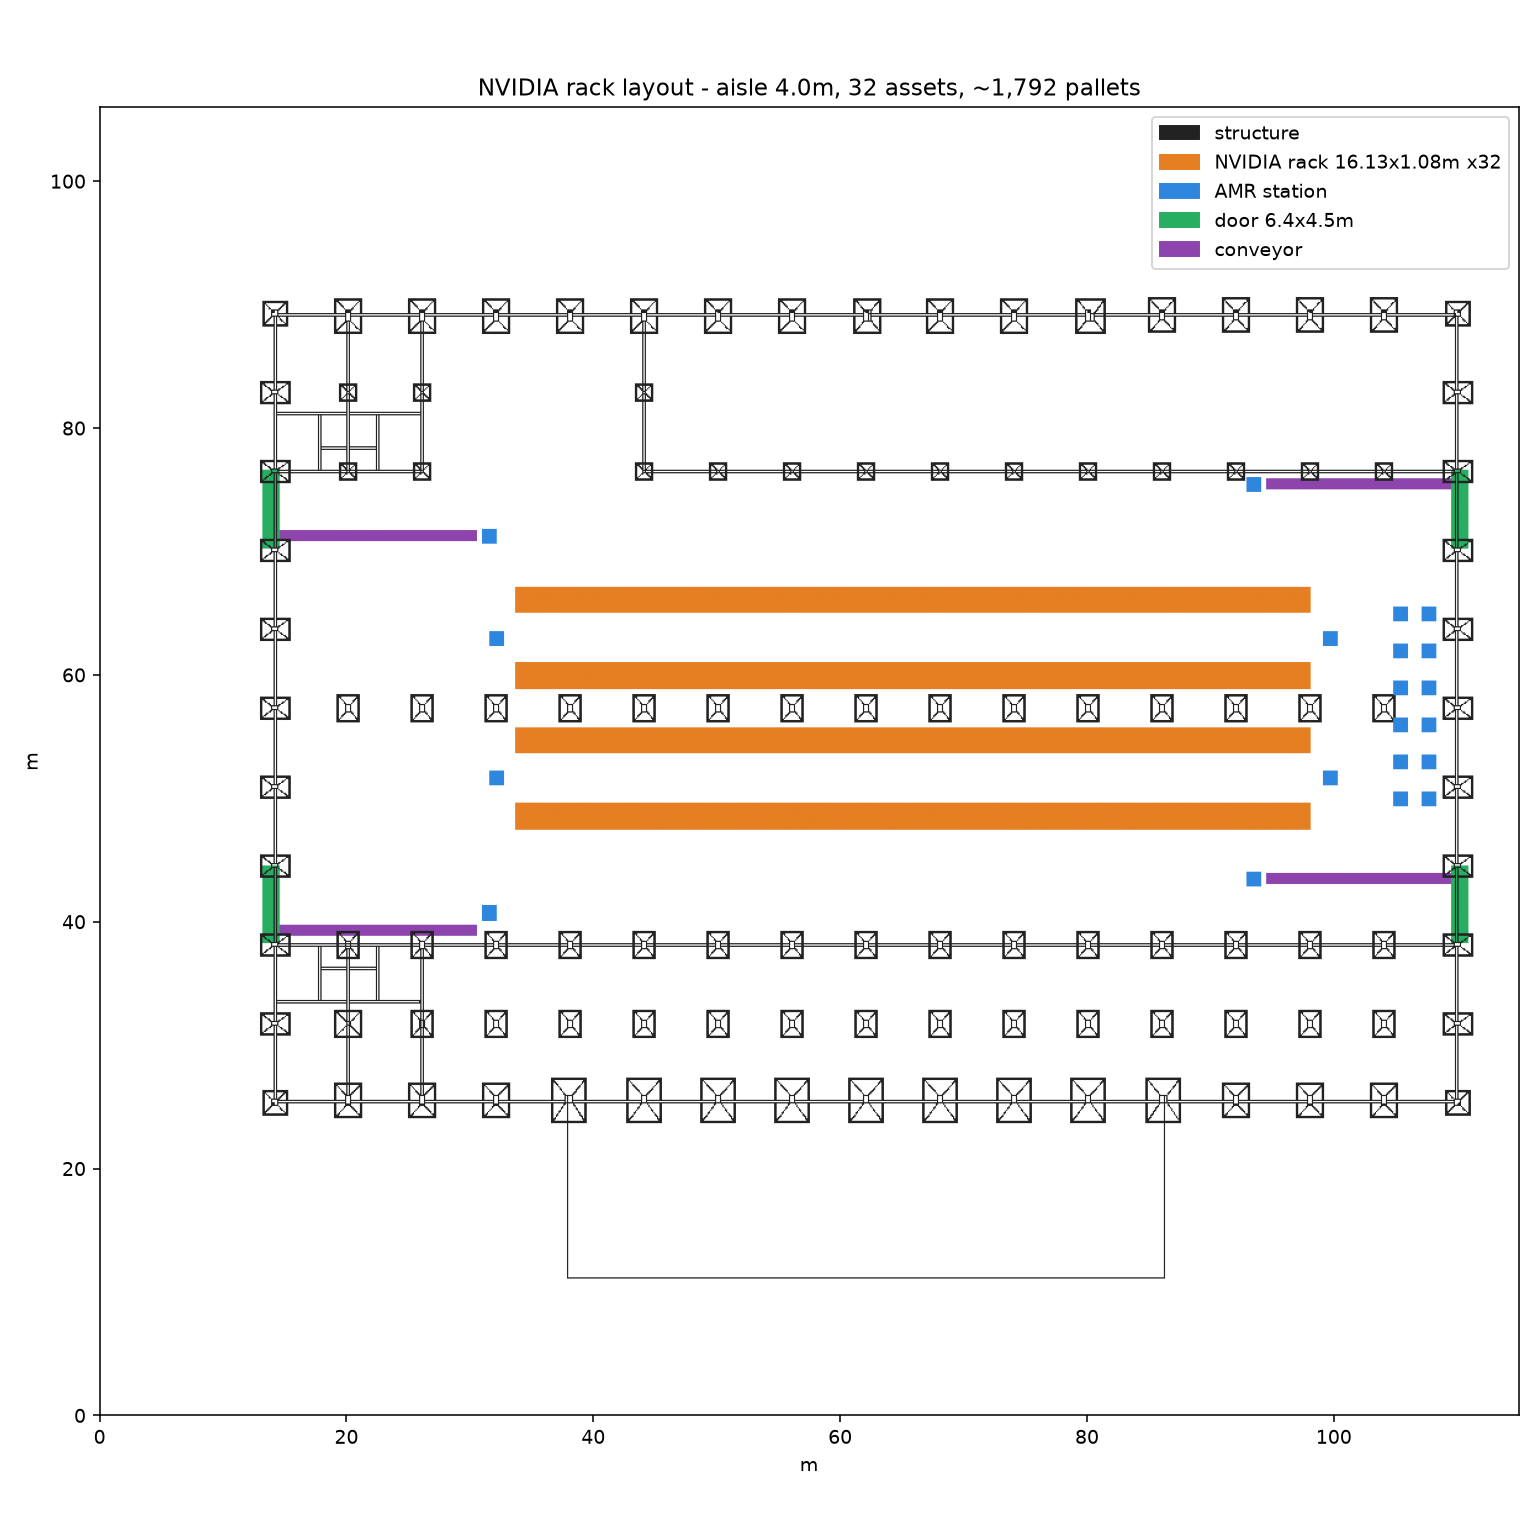
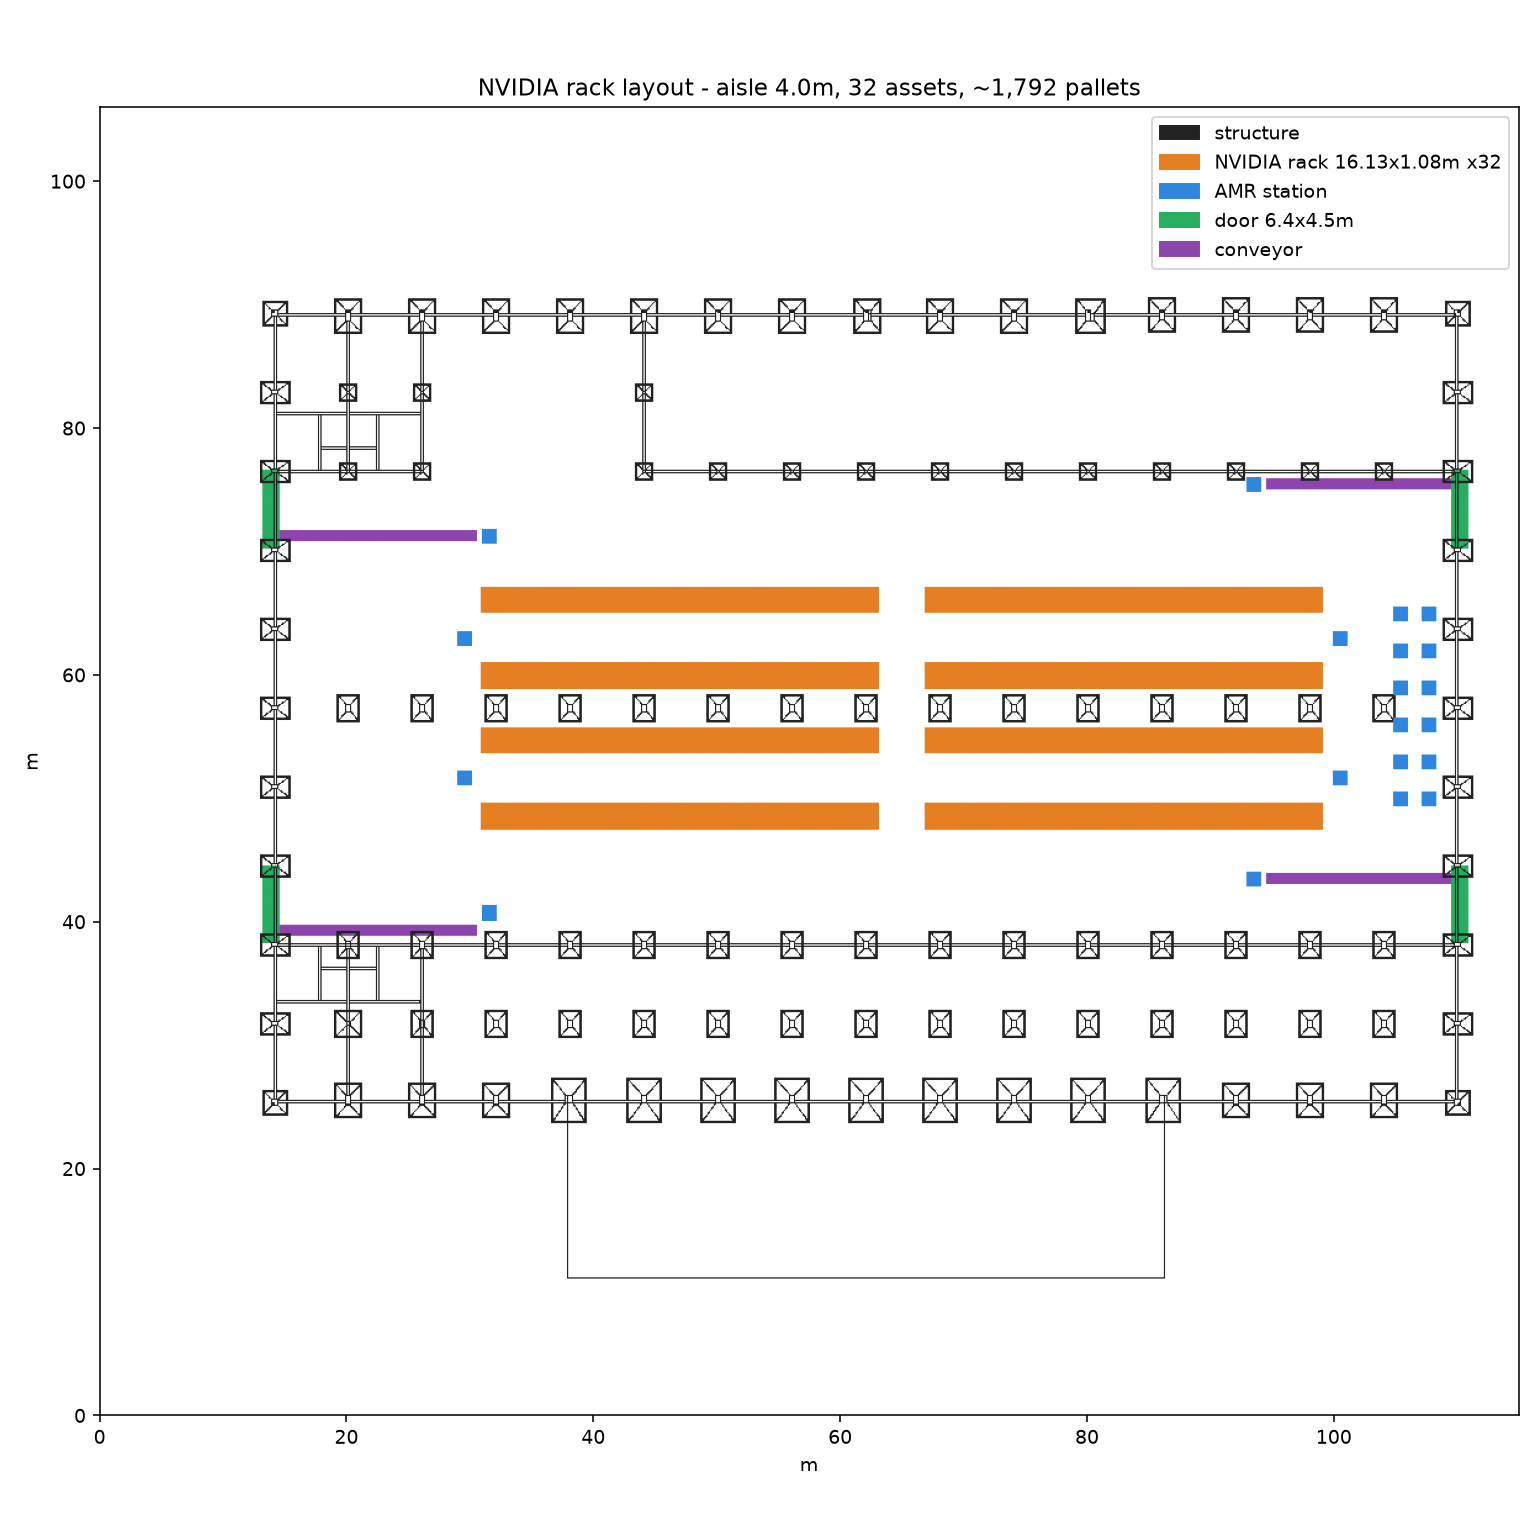
feat: 맵 v6.3 — 크로스-아일 신설로 빗 위상 해소, 데드 면 리저브 선언
- 유닛 2|3 경계 3.74m 갭(블록 32.26m x2), 갭 중심을 기둥 중간점 x65.1 정렬
  (기둥 62.1/68.1 팽창역 사이 관통 채널 2.1~2.5m 실측) — 순환 루프 성립,
  진입구 4→6곳, 저장 손실 0(양끝 슬랙 소진, 뱅크 30.97~99.23)
- 입구 버퍼 재계산(서 29.6/동 100.6), 스테이션 도달성 20/20 유지
- 기둥 갭 측 2개 면 리저브 선언: 파렛트 1,792 = 가용 1,344 + 리저브 448

Changed region(s): [[0.561, 0.374, 0.6234, 0.561], [0.2805, 0.374, 0.3429, 0.561], [0.8416, 0.374, 0.8727, 0.5299]]

diff --git a/sil/t3_warehouse_map/map_gen.py b/sil/t3_warehouse_map/map_gen.py
@@ -1,5 +1,5 @@
 # ============================================================
-# DXF 도면 → Occupancy Grid → 렉/AMR 배치 (v6.2 — 검증 반영)
+# DXF 도면 → Occupancy Grid → 렉/AMR 배치 (v6.3 — 크로스-아일)
 #
 # 변경점(v5 → v6):
 #   - 렉 유닛을 NVIDIA 에셋 실측값으로 확정: 16.13 x 1.08 m (4m x 4베이)
@@ -20,6 +20,16 @@
 #     팽창역 내부였음. 새 지점은 동서북 6m+ 여유, 남측 1.4m(도킹 방향)
 #   - 시각화 파일 저장(map_layout.png / map_planner.png) — 헤드리스 서버 대응.
 #     플래너 뷰(팽창 마스크+도달성+스테이션 자가검증) 신설
+#
+# 변경점(v6.2 → v6.3, 경로 위상 개선 2026-08-27):
+#   - 크로스-아일 1개 신설 — 64.5m 무절단 런은 진입구 4곳이 전부 병목이 되는
+#     빗(comb) 위상(정면 조우 시 우회 ~130m). 유닛 2|3 경계를 3.74m 벌려
+#     32.26m 블록 2개로 분할 → 순환 루프 성립, 입구 4→6곳
+#   - 갭 중심을 기둥 중간점 x=65.1에 정렬(기둥 62.1/68.1 사이) — 세로 관통이
+#     기둥 행(y57.3)을 지나므로 기둥 사이로 꿰어야 함. 뱅크 30.97~99.23으로
+#     서측 2.77m 이동(양끝 슬랙 소진, 저장 손실 0), 입구 버퍼 좌표 재계산
+#   - 기둥 갭 측 2개 면(행2 북면·행3 남면)을 리저브(수동 장기보관)로 선언 —
+#     AMR 서빙 불가 면. 가용/리저브 파렛트 분리 집계
 #
 # 셀 값: 0=빈 공간, 1=구조체, 2=렉, 3=AMR 스테이션, 4=출입문, 5=컨베이어
 # ============================================================
@@ -74,8 +84,8 @@ AMR_STATIONS = (
     [(31.6, 40.8), (31.6, 71.35), (93.6, 43.55), (93.6, 75.55)]    # 인계(컨베이어 끝단; W-S는 기둥·컨베이어 팽창역 북측)
     + [(107.8, 50 + i * 3) for i in range(6)]                      # 충전독
     + [(105.5, 50 + i * 3) for i in range(6)]                      # 충전 대기점(독 앞 2.3m)
-    + [(32.2, y) for y in AISLE_Y]                                 # 렉 통로 서측 입구 버퍼
-    + [(99.8, y) for y in AISLE_Y]                                 # 렉 통로 동측 입구 버퍼
+    + [(29.6, y) for y in AISLE_Y]                                 # 렉 통로 서측 입구 버퍼 (뱅크 30.97 서측)
+    + [(100.6, y) for y in AISLE_Y]                                # 렉 통로 동측 입구 버퍼 (뱅크 99.23 동측)
 )
 PALLET_PITCH = 1.15
 RACK_LEVELS = 4
@@ -132,11 +142,20 @@ def add_point(g, x, y, val, s=1.2):
 # 2) 렉 행 배치 (x방향, 기둥 행 회피, 유닛 스냅)
 # ------------------------------------------------------------
 strips = [(BANK[0], COL_ROW_Y - COL_KEEP), (COL_ROW_Y + COL_KEEP, BANK[1])]
-rack_rows = []   # (x_start, y_bottom, n_units)
+rack_rows = []   # (x_start, y_bottom, n_units) — 크로스-아일로 행당 블록 2개
 span = STAGE_R - STAGE_L
 n_units = int(span // RACK_UNIT_L)
-used_x = n_units * RACK_UNIT_L
-xs = STAGE_L + (span - used_x) / 2
+
+# 크로스-아일(v6.3): 유닛 2|3 경계를 CROSS_GAP만큼 벌려 블록 2개로.
+# 갭 중심은 기둥 중간점(62.1/68.1 사이) — 세로 관통이 기둥 행(y57.3)을 지나므로
+# 기둥 팽창역(±1.1m) 사이로 꿰어야 한다. 뱅크는 30.97~99.23 (STAGE 안, 손실 0)
+CROSS_AT = 2                 # 브레이크 앞 유닛 수
+CROSS_GAP = 3.74             # 갭 폭 [m] — 팽창(0.8x2) 후 유효 2.14m
+CROSS_CENTER = 65.1          # 기둥 중간점 x
+w1 = CROSS_AT * RACK_UNIT_L
+w2 = (n_units - CROSS_AT) * RACK_UNIT_L
+xs = CROSS_CENTER - CROSS_GAP / 2 - w1
+assert STAGE_L <= xs and xs + w1 + CROSS_GAP + w2 <= STAGE_R, "뱅크가 스테이지 초과"
 for (s0, s1) in strips:
     H = s1 - s0
     n_rows = int((H + AISLE) // (ROW_W + AISLE))
@@ -144,8 +163,10 @@ for (s0, s1) in strips:
     off = (H - used_y) / 2
     for k in range(n_rows):
         yb = s0 + off + k * (ROW_W + AISLE)
-        add_rect(grid, xs, yb, used_x, ROW_W, 2)
-        rack_rows.append((round(xs, 2), round(yb, 2), n_units))
+        add_rect(grid, xs, yb, w1, ROW_W, 2)
+        add_rect(grid, xs + w1 + CROSS_GAP, yb, w2, ROW_W, 2)
+        rack_rows.append((round(xs, 2), round(yb, 2), CROSS_AT))
+        rack_rows.append((round(xs + w1 + CROSS_GAP, 2), round(yb, 2), n_units - CROSS_AT))
 
 # ------------------------------------------------------------
 # 3) 컨베이어 / 스테이션 / 문
@@ -164,8 +185,12 @@ total_units = sum(n for _, _, n in rack_rows)
 assets = total_units * (2 if DOUBLE_ROW else 1)
 row_len = total_units * RACK_UNIT_L
 pallets = int(row_len / PALLET_PITCH) * 2 * RACK_LEVELS
-print(f"[2] 렉 행 {len(rack_rows)}개(더블), 유닛 {total_units} → 에셋 {assets}개, 연장 {row_len:.1f}m")
-print(f"    파렛트 추정 {pallets:,}개")
+# 기둥 갭 측 2개 면(행2 북면·행3 남면)은 AMR 진입 불가 공간을 향함 → 리저브 선언
+n_rows_total = len(rack_rows) // 2            # 블록 2개 = 행 1개
+dead_len = 2 * (row_len / n_rows_total)
+reserve = int(dead_len / PALLET_PITCH) * RACK_LEVELS
+print(f"[2] 렉 행 {n_rows_total}개(더블) x 블록 2 = 에셋 {assets}개, 연장 {row_len:.1f}m, 크로스-아일 갭 {CROSS_GAP}m@x{CROSS_CENTER}")
+print(f"    파렛트 추정 {pallets:,}개 = 가용 {pallets - reserve:,} + 리저브 {reserve:,} (기둥 갭 측 면 — 수동 장기보관 선언)")
 print(f"    렉통로 {AISLE}m → 팽창({INFLATE}m) 후 유효 {AISLE - 2 * INFLATE:.1f}m (양방향 교행 가능)")
 
 obstacle = binary_dilation((grid == 1) | (grid == 2) | (grid == 5),
